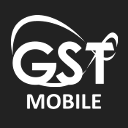
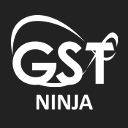
Rebranded app to "GST Ninja"

Changed region(s): [[0.1875, 0.7188, 0.8125, 0.875]]

diff --git a/templates/template.htm b/templates/template.htm
@@ -27,15 +27,15 @@
         <meta name="apple-mobile-web-app-capable" content="yes">
         <meta name="apple-mobile-web-app-status-bar-style" content="black">
         <script src="{{ url_for('static', filename='js/ios.js') }}"></script>
-        <meta name="application-name" content="MobileGST">
+        <meta name="application-name" content="GST Ninja">
         <meta name="msapplication-config" content="{{ url_for('static', filename='ieconfig.xml') }}">
         <meta name="msapplication-starturl" content="/">
 
         <!-- Facebook Open Graph -->
         <meta property="og:type" content="website">
-        <meta property="og:title" content="MobileGST">
+        <meta property="og:title" content="GST Ninja">
         <meta property="og:description" content="Easily look up GST status on the go!">
-        <meta property="og:image" content="http://mobile-gst.volzel.net{{ url_for('static', filename='img/facebook-og-icon.png') }}">
+        <meta property="og:image" content="http://gst.ninja{{ url_for('static', filename='img/facebook-og-icon.png') }}">
     </head>
     <body>
         <nav class="navbar navbar-inverse">

diff --git a/app.py b/app.py
@@ -2,7 +2,7 @@ from flask import Flask, render_template, redirect, request
 import gst
 
 app = Flask(__name__)
-app.config['SITE_NAME'] = "MobileGST"
+app.config['SITE_NAME'] = "GST Ninja"
 
 def search_view(search_func, search_by):
     def view():
